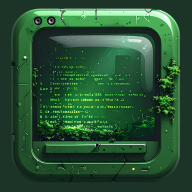
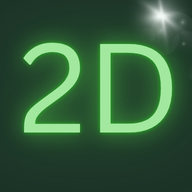
Add files via upload

diff --git a/index.html b/index.html
@@ -5,7 +5,7 @@
     <meta name="viewport" content="width=device-width, initial-scale=1.0, maximum-scale=1.0, user-scalable=no, viewport-fit=cover">
     <meta name="apple-mobile-web-app-capable" content="yes">
     <meta name="apple-mobile-web-app-status-bar-style" content="black-translucent">
-    <title>Matrix 2D PWA</title>
+    <title>2D Waterfall</title>
 
     <link rel="manifest" href="manifest.json">
 